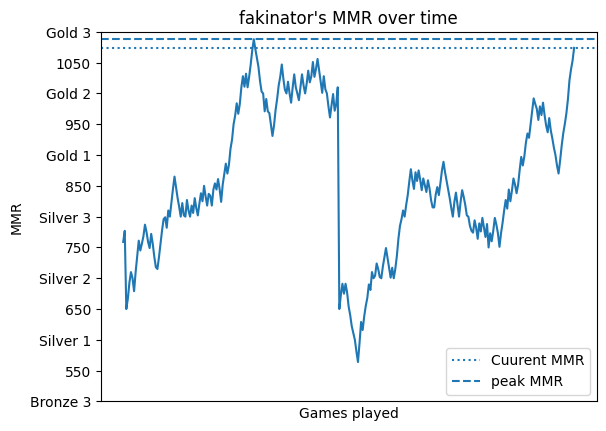
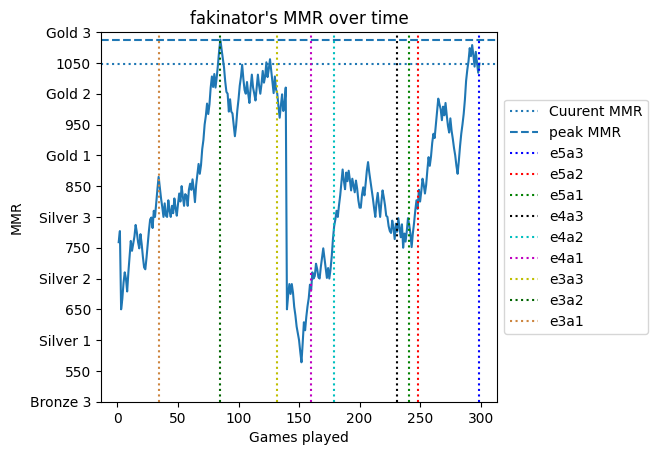
mmr history updates

diff --git a/graphs.py b/graphs.py
@@ -92,6 +92,8 @@ def generate_ticks(puuid):
                 x_ticks[-1] = x[-1]
             else:
                 x_ticks.append(x[-1])
+    else:
+        x_ticks = False
 
     return  x, y, x_ticks, y_ticks, y_labels, [y_min,y_max]
 
@@ -125,7 +127,8 @@ def graph(puuid="None", ign="", update=True, acts=False):
     axes.set_ylim(y_range)
 
     axes.set_yticks(y_ticks)
-    axes.set_xticks(x_ticks)
+    if x_ticks:
+        axes.set_xticks(x_ticks)
     axes.set_yticklabels(y_labels)
 
     p = ax.plot(x, y)
@@ -412,4 +415,5 @@ def update_all_graphs():
     return
 
 if __name__ == "__main__":
-    print(graph(ign='fakinator'))
+    print(graph(ign='fakinator', update=False, acts=True))
+    print(graph(ign='oshawott', update=False, acts=True))

diff --git a/main.py b/main.py
@@ -43,7 +43,7 @@ async def on_ready():
 async def choice(ctx, randomise="", tactic=""):
     
     if randomise == "account":
-        await ctx.send(random.choice(['Smurfs', 'Smurfs', 'Smurfs', 'Smurfs', 'Mains', 'Mains', 'Mains', 'Mains', 'Mains', 'Mains']))
+        await ctx.send(random.choices(['Smurfs', 'Mains'], weights=[40, 60], k=1)[0])
     
     if randomise == "gamemode":
         await ctx.send(random.choice(['Unrated', 'Competitive']))

diff --git a/mmr_history_updater.py b/mmr_history_updater.py
@@ -73,6 +73,8 @@ def update_all(graph, printer=True,start=0):
         if printer:
             print(f'completed retry {i+1}/{total}')
 
+    with open('ztemp.txt','w') as f:
+        f.write(str(updatedList))
 
     if printer:
         print(updatedList)
@@ -92,4 +94,4 @@ def update_all(graph, printer=True,start=0):
     return printerz
 
 if __name__ == "__main__":
-    update_all(False)
+    update_all(False)   
